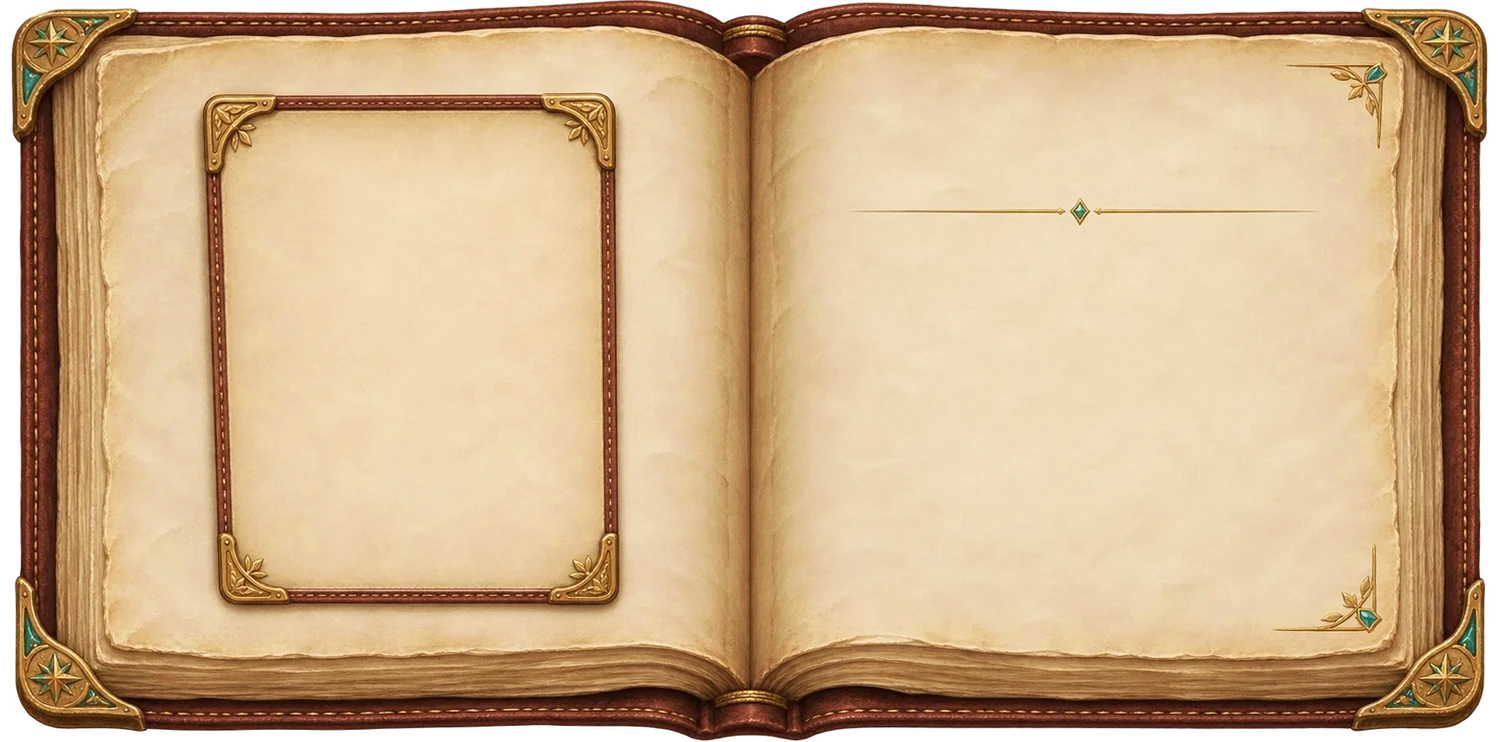
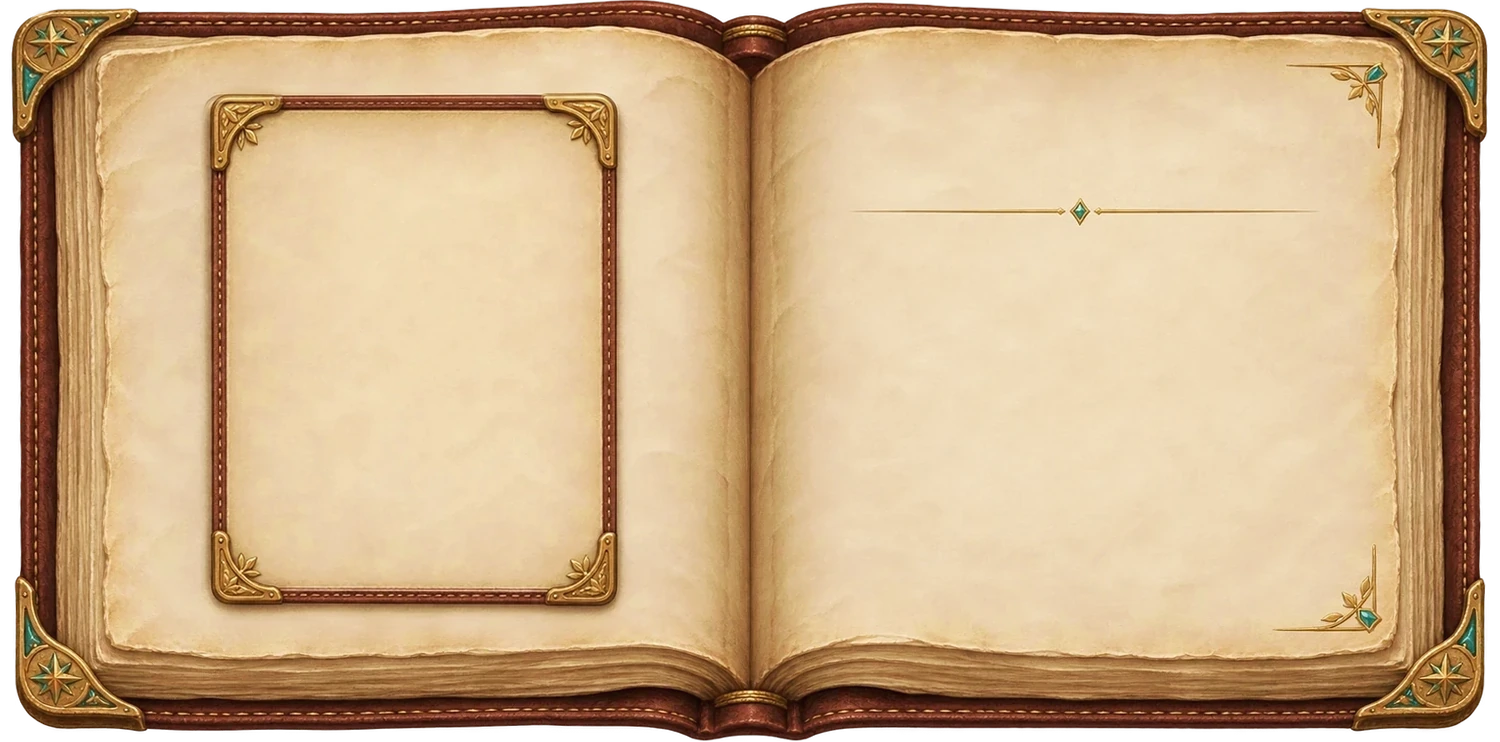
v98.666: กรอบหน้าต่างการ์ดตรง 90° · สมุดผนึกใหญ่ขึ้น · ริบบิ้นแฉกขึ้นบน ด้านตรงชิดขอบสมุด
Claude-Session: https://claude.ai/code/session_019t7yaw2C9uJCiiaT3uHpNT

Changed region(s): [[0.1227, 0.496, 0.4293, 0.8369], [0.1227, 0.124, 0.276, 0.465], [0.3067, 0.124, 0.4293, 0.403]]

diff --git a/index.html b/index.html
@@ -1,11 +1,11 @@
-<!doctype html><html lang="th"><head><meta charset="utf-8"><link rel="icon" type="image/webp" href="assets/favicon.webp"><meta name="viewport" content="width=device-width,initial-scale=1"><script>/* v98.275 · editor tools (?editor=cards|menu): hide the game scene from the very first paint — the hiding rule used to arrive with js/editor-mode.js (script ~70 of ~100), so on a slow connection the old scene showed while the page was still loading */if(/[?&]editor=/.test(location.search)){var st=document.createElement("style");st.textContent="body>main>*:not(header),#villageTownLayer,.ambient,.day-veil,#advLayer,#tacticsLayer{display:none!important}body{background:#efe6cf!important}";document.head.appendChild(st)}</script><meta name="theme-color" content="#f5ecd5"><title>Agrenor: Paths Unwritten</title><link rel="stylesheet" href="css/thai-font.css?v=1"><script src="js/key-layout.js?v=1"></script><link rel="stylesheet" href="css/mip-loader.css?v=2"><link rel="stylesheet" href="css/style.css"><link rel="stylesheet" href="css/layout.css"><link rel="stylesheet" href="css/paper-cards.css"><link rel="stylesheet" href="css/game-ui.css?v=v98.493"><link rel="stylesheet" href="css/workshop-layout.css"><link rel="stylesheet" href="css/village.css"><link rel="stylesheet" href="css/journey.css"><link rel="stylesheet" href="css/ivory-v03.css"><link rel="stylesheet" href="css/polish-v05.css"><link rel="stylesheet" href="css/card-studio.css"><link rel="stylesheet" href="css/card-book.css?v=v98.665"><link rel="stylesheet" href="css/hand-cards.css"><link rel="stylesheet" href="css/battle-polish.css">
-<link rel="stylesheet" href="css/town-font.css"><link rel="stylesheet" href="css/title-screen.css?v=v98.582"><link rel="stylesheet" href="css/story.css?v=v98.621"><script src="js/touch.js?v=94.02"></script><script src="js/webp-redirect.js?v=92.04"></script><script src="js/game-version.js?v=v98.665"></script><script src="js/precache.js?v=v98.654" defer></script><script src="js/media-cache.js?v=1"></script><script src="js/dialogue-fx.js?v=4"></script><script src="js/mip-loader.js?v=1"></script><script src="js/new-game-prologue-kit.js?v=18"></script><script src="js/title-screen.js?v=v98.582"></script><style id="gameplay-no-editor-tools">
+<!doctype html><html lang="th"><head><meta charset="utf-8"><link rel="icon" type="image/webp" href="assets/favicon.webp"><meta name="viewport" content="width=device-width,initial-scale=1"><script>/* v98.275 · editor tools (?editor=cards|menu): hide the game scene from the very first paint — the hiding rule used to arrive with js/editor-mode.js (script ~70 of ~100), so on a slow connection the old scene showed while the page was still loading */if(/[?&]editor=/.test(location.search)){var st=document.createElement("style");st.textContent="body>main>*:not(header),#villageTownLayer,.ambient,.day-veil,#advLayer,#tacticsLayer{display:none!important}body{background:#efe6cf!important}";document.head.appendChild(st)}</script><meta name="theme-color" content="#f5ecd5"><title>Agrenor: Paths Unwritten</title><link rel="stylesheet" href="css/thai-font.css?v=1"><script src="js/key-layout.js?v=1"></script><link rel="stylesheet" href="css/mip-loader.css?v=2"><link rel="stylesheet" href="css/style.css"><link rel="stylesheet" href="css/layout.css"><link rel="stylesheet" href="css/paper-cards.css"><link rel="stylesheet" href="css/game-ui.css?v=v98.493"><link rel="stylesheet" href="css/workshop-layout.css"><link rel="stylesheet" href="css/village.css"><link rel="stylesheet" href="css/journey.css"><link rel="stylesheet" href="css/ivory-v03.css"><link rel="stylesheet" href="css/polish-v05.css"><link rel="stylesheet" href="css/card-studio.css"><link rel="stylesheet" href="css/card-book.css?v=v98.666"><link rel="stylesheet" href="css/hand-cards.css"><link rel="stylesheet" href="css/battle-polish.css">
+<link rel="stylesheet" href="css/town-font.css"><link rel="stylesheet" href="css/title-screen.css?v=v98.582"><link rel="stylesheet" href="css/story.css?v=v98.621"><script src="js/touch.js?v=94.02"></script><script src="js/webp-redirect.js?v=92.04"></script><script src="js/game-version.js?v=v98.666"></script><script src="js/precache.js?v=v98.654" defer></script><script src="js/media-cache.js?v=1"></script><script src="js/dialogue-fx.js?v=4"></script><script src="js/mip-loader.js?v=1"></script><script src="js/new-game-prologue-kit.js?v=18"></script><script src="js/title-screen.js?v=v98.582"></script><style id="gameplay-no-editor-tools">
 /* In normal play, hide development-only battle controls. They remain available in Editor mode. */
 body:not(.editor-mode) #anchorToggle,
 body:not(.editor-mode) #anchorEditor,
 body:not(.editor-mode) #fxToggle,
 body:not(.editor-mode) #fxLab { display:none !important; }
-</style><link rel="stylesheet" href="css/game-intro.css?v=3"><link rel="stylesheet" href="css/opening-cinematic.css?v=v98.586"><script defer src="js/maker-logo.js?v=10"></script><script defer src="js/game-intro.js?v=16"></script><script defer src="js/opening-cinematic.js?v=v98.653"></script></head><body><div class="ambient"></div><main><header><div><div class="eyebrow">EVERYDAY ARCANA · VERSION 15 · JOURNEY</div><h1>Project A</h1></div><div class="header-actions"><button class="map-nav" onclick="openPanel('map')" title="แผนที่หมู่บ้าน" aria-label="แผนที่หมู่บ้าน">◇ <span class="map-text">แผนที่</span></button><button onclick="openPanel('bag')" title="สมุดผนึก" aria-label="สมุดผนึก">▣</button><button onclick="openPanel('upgrade')" title="อัปไพ่" aria-label="อัปไพ่">✦</button><button id="motion" onclick="toggleMotion()" title="เปิดหรือย่อแอนิเมชัน" aria-label="เปิดหรือย่อแอนิเมชัน">◈</button></div></header><section class="hud" id="hud"></section><section id="roster" class="roster" aria-label="ตัวละครในฉาก"></section><section class="world" id="world"><div class="world-shade"></div><div class="location"><div><span class="eyebrow" id="placeLabel"></span><h2 id="placeTitle"></h2></div><div class="workshop-activity"><span id="activityLabel">⚒ งานคราฟต์</span><button id="stopTraining" onclick="toggleTraining()" title="จบการฝึก" aria-label="จบการฝึก" hidden>⚑</button></div></div><div class="quest" id="quest"></div><div class="station furnace" onclick="station(0)" role="button" tabindex="0" onkeydown="if(event.key==='Enter')station(0)" title="หลอมโลหะ: แรง 6 / เวลา 15 นาที">♨<span>เตาหลอม</span></div><div class="station anvil" onclick="station(1)" role="button" tabindex="0" onkeydown="if(event.key==='Enter')station(1)" title="ตีขึ้นรูป: แรง 8 / เวลา 20 นาที">⚒<span>ทั่งตีเหล็ก</span></div><div class="station water" onclick="station(2)" role="button" tabindex="0" onkeydown="if(event.key==='Enter')station(2)" title="ชุบแข็ง: แรง 4 / เวลา 10 นาที">◈<span>ถังชุบแข็ง</span></div><div class="station bench" onclick="station(3)" role="button" tabindex="0" onkeydown="if(event.key==='Enter')station(3)" title="พักสั้น: ฟื้นแรง 25 / เวลา 15 นาที">☾<span>จุดพัก</span></div><div class="actor" id="actor"><div class="shadow"></div><div class="sprite-motion"><img id="heroSprite" class="cutout" src="assets/hero.webp" alt="ตัวเอก"></div><span class="emotion" id="emotion">✦</span><span class="actor-name" data-hero-name>นักผจญภัย</span></div><div id="dummy" class="dummy" role="button" tabindex="0" onclick="toggleTraining()" onkeydown="if(event.key==='Enter'||event.key===' '){event.preventDefault();toggleTraining()}" aria-label="ฝึกกับหุ่นฟาง"><div class="sprite-motion"><img id="dummySprite" class="cutout" src="assets/scarecrow.webp" alt="หุ่นไล่กาฝึกซ้อม"></div></div><div class="dummy-prompt" id="dummyPrompt">⚔ แตะหุ่นเพื่อฝึก</div><div class="target-anchor" id="targetAnchor"></div><div class="world-feedback" id="feedback" aria-live="polite"></div><div class="workbars" id="workbars"></div><div class="world-bottom"><span id="equipped"></span><button id="newRound" onclick="newRound()" hidden>เริ่มงานใหม่</button><div id="recipes"><button onclick="setRecipe('sword')" id="swordRecipe" title="สร้างดาบ" aria-label="สร้างดาบ">⚔</button><button onclick="setRecipe('hammer')" id="hammerRecipe" title="สร้างค้อน" aria-label="สร้างค้อน">⚒</button></div></div><div class="scene-flash" id="sceneFlash"></div></section><div class="hand-heading"><div><span class="eyebrow">YOUR HAND</span><h2>ไพ่ในมือ · ลากลงฉากเพื่อใช้ <small id="handCount"></small></h2></div><div class="legend"><span class="combat">⚔ ผจญภัย · ☾ ฟื้นฟู</span><button onclick="openHelp()" aria-label="คำอธิบายสัญลักษณ์">?</button></div></div><p id="message" class="message" role="status"></p><div class="hand-scroll" id="handScroll"><div class="hand" id="hand"></div></div><footer><span id="saveStatus"></span><button onclick="resetAll()">เริ่มใหม่ทั้งหมด</button></footer></main><dialog id="panel"><div class="panelhead"><h2 id="panelTitle"></h2><button onclick="document.getElementById('panel').close()">✕ ปิด</button></div><div id="panelContent"></div></dialog><dialog id="reward"><div class="reward-rays"></div><span class="eyebrow">NEW DISCOVERY</span><h2 id="rewardTitle"></h2><div id="rewardCard"></div><button class="primary" onclick="document.getElementById('reward').close()">ปิดสมุด</button></dialog><div id="dayVeil" class="day-veil"><span>เช้าวันใหม่</span></div><script src="js/game-dialog.js"></script><script src="js/game-settings.js?v=v98.648"></script><script src="js/card-design.js"></script><script src="js/cards-data.js"></script><script src="js/core.js?v=98.294"></script><script src="js/hero-identity.js?v=51"></script><script src="js/village-core.js?v=98.294"></script><script src="js/injury.js?v=v98.332"></script><script src="js/world-state.js?v=98.297"></script><script src="js/weapons.js"></script><script src="js/save-migrate.js?v=v98.444"></script><script src="js/journey-core.js"></script><script src="js/layout-config.js"></script><script src="js/paper-cards.js?v=v98.444"></script><script src="js/ui.js?v=v98.444"></script><script src="js/village-ui.js?v=v98.474"></script><script src="js/guild-desk.js?v=v98.586"></script><script src="js/station-actions.js?v=v98.444"></script><script src="js/village-life.js?v=v98.427"></script><script src="js/player-shop.js?v=95.00"></script><script src="js/progression.js?v=v98.332"></script><script src="js/titles.js?v=v98.474"></script><script src="js/main-story.js?v=v98.493"></script><script src="js/animation-data.js"></script><script src="js/card-lore.js?v=v98.665"></script><script src="js/collection-v03.js?v=v98.665"></script><section id="tacticsLayer" hidden aria-label="ฝึกต่อสู้แบบตาราง"><div class="topbar"><button class="back-link" id="tacticsExit">← ออกจากการฝึก</button><div class="title"><small>EVERYDAY ARCANA · ฝึกกับหุ่นฟาง</small><h1>ลานฝึกริมป่า</h1></div><div class="top-actions"><button id="helpButton">วิธีเล่น</button><button id="motionButton" aria-pressed="true">แอนิเมชัน เปิด</button><button id="fullButton">เต็มจอ</button></div></div>
+</style><link rel="stylesheet" href="css/game-intro.css?v=3"><link rel="stylesheet" href="css/opening-cinematic.css?v=v98.586"><script defer src="js/maker-logo.js?v=10"></script><script defer src="js/game-intro.js?v=16"></script><script defer src="js/opening-cinematic.js?v=v98.653"></script></head><body><div class="ambient"></div><main><header><div><div class="eyebrow">EVERYDAY ARCANA · VERSION 15 · JOURNEY</div><h1>Project A</h1></div><div class="header-actions"><button class="map-nav" onclick="openPanel('map')" title="แผนที่หมู่บ้าน" aria-label="แผนที่หมู่บ้าน">◇ <span class="map-text">แผนที่</span></button><button onclick="openPanel('bag')" title="สมุดผนึก" aria-label="สมุดผนึก">▣</button><button onclick="openPanel('upgrade')" title="อัปไพ่" aria-label="อัปไพ่">✦</button><button id="motion" onclick="toggleMotion()" title="เปิดหรือย่อแอนิเมชัน" aria-label="เปิดหรือย่อแอนิเมชัน">◈</button></div></header><section class="hud" id="hud"></section><section id="roster" class="roster" aria-label="ตัวละครในฉาก"></section><section class="world" id="world"><div class="world-shade"></div><div class="location"><div><span class="eyebrow" id="placeLabel"></span><h2 id="placeTitle"></h2></div><div class="workshop-activity"><span id="activityLabel">⚒ งานคราฟต์</span><button id="stopTraining" onclick="toggleTraining()" title="จบการฝึก" aria-label="จบการฝึก" hidden>⚑</button></div></div><div class="quest" id="quest"></div><div class="station furnace" onclick="station(0)" role="button" tabindex="0" onkeydown="if(event.key==='Enter')station(0)" title="หลอมโลหะ: แรง 6 / เวลา 15 นาที">♨<span>เตาหลอม</span></div><div class="station anvil" onclick="station(1)" role="button" tabindex="0" onkeydown="if(event.key==='Enter')station(1)" title="ตีขึ้นรูป: แรง 8 / เวลา 20 นาที">⚒<span>ทั่งตีเหล็ก</span></div><div class="station water" onclick="station(2)" role="button" tabindex="0" onkeydown="if(event.key==='Enter')station(2)" title="ชุบแข็ง: แรง 4 / เวลา 10 นาที">◈<span>ถังชุบแข็ง</span></div><div class="station bench" onclick="station(3)" role="button" tabindex="0" onkeydown="if(event.key==='Enter')station(3)" title="พักสั้น: ฟื้นแรง 25 / เวลา 15 นาที">☾<span>จุดพัก</span></div><div class="actor" id="actor"><div class="shadow"></div><div class="sprite-motion"><img id="heroSprite" class="cutout" src="assets/hero.webp" alt="ตัวเอก"></div><span class="emotion" id="emotion">✦</span><span class="actor-name" data-hero-name>นักผจญภัย</span></div><div id="dummy" class="dummy" role="button" tabindex="0" onclick="toggleTraining()" onkeydown="if(event.key==='Enter'||event.key===' '){event.preventDefault();toggleTraining()}" aria-label="ฝึกกับหุ่นฟาง"><div class="sprite-motion"><img id="dummySprite" class="cutout" src="assets/scarecrow.webp" alt="หุ่นไล่กาฝึกซ้อม"></div></div><div class="dummy-prompt" id="dummyPrompt">⚔ แตะหุ่นเพื่อฝึก</div><div class="target-anchor" id="targetAnchor"></div><div class="world-feedback" id="feedback" aria-live="polite"></div><div class="workbars" id="workbars"></div><div class="world-bottom"><span id="equipped"></span><button id="newRound" onclick="newRound()" hidden>เริ่มงานใหม่</button><div id="recipes"><button onclick="setRecipe('sword')" id="swordRecipe" title="สร้างดาบ" aria-label="สร้างดาบ">⚔</button><button onclick="setRecipe('hammer')" id="hammerRecipe" title="สร้างค้อน" aria-label="สร้างค้อน">⚒</button></div></div><div class="scene-flash" id="sceneFlash"></div></section><div class="hand-heading"><div><span class="eyebrow">YOUR HAND</span><h2>ไพ่ในมือ · ลากลงฉากเพื่อใช้ <small id="handCount"></small></h2></div><div class="legend"><span class="combat">⚔ ผจญภัย · ☾ ฟื้นฟู</span><button onclick="openHelp()" aria-label="คำอธิบายสัญลักษณ์">?</button></div></div><p id="message" class="message" role="status"></p><div class="hand-scroll" id="handScroll"><div class="hand" id="hand"></div></div><footer><span id="saveStatus"></span><button onclick="resetAll()">เริ่มใหม่ทั้งหมด</button></footer></main><dialog id="panel"><div class="panelhead"><h2 id="panelTitle"></h2><button onclick="document.getElementById('panel').close()">✕ ปิด</button></div><div id="panelContent"></div></dialog><dialog id="reward"><div class="reward-rays"></div><span class="eyebrow">NEW DISCOVERY</span><h2 id="rewardTitle"></h2><div id="rewardCard"></div><button class="primary" onclick="document.getElementById('reward').close()">ปิดสมุด</button></dialog><div id="dayVeil" class="day-veil"><span>เช้าวันใหม่</span></div><script src="js/game-dialog.js"></script><script src="js/game-settings.js?v=v98.648"></script><script src="js/card-design.js"></script><script src="js/cards-data.js"></script><script src="js/core.js?v=98.294"></script><script src="js/hero-identity.js?v=51"></script><script src="js/village-core.js?v=98.294"></script><script src="js/injury.js?v=v98.332"></script><script src="js/world-state.js?v=98.297"></script><script src="js/weapons.js"></script><script src="js/save-migrate.js?v=v98.444"></script><script src="js/journey-core.js"></script><script src="js/layout-config.js"></script><script src="js/paper-cards.js?v=v98.444"></script><script src="js/ui.js?v=v98.444"></script><script src="js/village-ui.js?v=v98.474"></script><script src="js/guild-desk.js?v=v98.586"></script><script src="js/station-actions.js?v=v98.444"></script><script src="js/village-life.js?v=v98.427"></script><script src="js/player-shop.js?v=95.00"></script><script src="js/progression.js?v=v98.332"></script><script src="js/titles.js?v=v98.474"></script><script src="js/main-story.js?v=v98.493"></script><script src="js/animation-data.js"></script><script src="js/card-lore.js?v=v98.666"></script><script src="js/collection-v03.js?v=v98.666"></script><section id="tacticsLayer" hidden aria-label="ฝึกต่อสู้แบบตาราง"><div class="topbar"><button class="back-link" id="tacticsExit">← ออกจากการฝึก</button><div class="title"><small>EVERYDAY ARCANA · ฝึกกับหุ่นฟาง</small><h1>ลานฝึกริมป่า</h1></div><div class="top-actions"><button id="helpButton">วิธีเล่น</button><button id="motionButton" aria-pressed="true">แอนิเมชัน เปิด</button><button id="fullButton">เต็มจอ</button></div></div>
 <section class="field-tools" aria-label="สร้างสนาม"><label>สถานที่ <select id="theme"><option value="fft-forest">ป่าเนินผา · แบบ FFT (ทดลอง)</option><option value="modular-wilds">ป่าผสม · สุ่มชิ้นส่วน</option><option value="terraced-hill">เนินหินลานขั้นบันได</option><option value="forest" selected>ลานฝึกริมป่า</option><option value="quarry">เหมืองหินร้าง</option><option value="mine">เหมืองร้าง (ถ้ำ)</option></select></label><label>รูปแบบ <select id="fieldMode"><option value="training">ฝึก 1 ต่อ 1 · 18×19</option><option value="battle">สนามรบ 5 ต่อ 10 · 23×24 (ทดสอบ)</option></select></label><label>แสง <select id="nightMode" title="ฉากมืด: สุ่มตาม seed (ราว 1 ใน 4) / บังคับกลางคืน / บังคับกลางวัน"><option value="random">สุ่ม</option><option value="night">กลางคืน</option><option value="day">กลางวัน</option></select></label><label>Seed <input id="seed" maxlength="40" value="FOREST-04" spellcheck="false"></label><button id="generateButton">สร้างสนาม</button><button id="randomButton">สุ่มใหม่</button><button id="seeThrough" aria-pressed="false" title="ทำให้ต้นไม้และเสาโปร่ง (ปุ่ม H)">มองทะลุ ปิด</button><div class="zoom-controls"><button id="rotLeft" title="หมุนแผนที่ทวนเข็ม ([)">⟲</button><span id="rotLabel" class="rot-label" title="ทิศมุมกล้อง">N</span><button id="rotRight" title="หมุนแผนที่ตามเข็ม (])">⟳</button><button id="zoomOut" aria-label="ย่อสนาม">−</button><button id="zoomReset">พอดีจอ</button><button id="zoomIn" aria-label="ขยายสนาม">+</button></div></section>
 <div class="battle-layout"><section class="field-wrap"><div class="round-banner"><span id="roundLabel">รอบ 1 · ตาของคุณ</span><span id="modeLabel">เดิน • ช่องสีฟ้า</span></div><canvas id="battleCanvas" tabindex="0" aria-label="สนามฝึกตารางเอียง ใช้ลูกศรเลือกช่อง F เดินหรือใช้ไพ่ Enter จบเทิร์น Escape ยกเลิก"></canvas><div class="tile-inspector" id="tileInspector">ชี้ช่องเพื่อดูความสูงและค่าเดิน</div><div class="field-hint">คลิกช่องเพื่อเดิน · เลือกไพ่แล้วคลิกเป้าหมาย · ลากพื้นที่ว่างเพื่อเลื่อนภาพ</div><div class="result-overlay" id="resultOverlay" hidden><div><span id="resultEyebrow">ฝึกสำเร็จ</span><h2 id="resultTitle"></h2><p id="resultText"></p><button id="retryButton">ฝึกสนามเดิมอีกครั้ง</button><button id="tacticsResultExit">กลับโรงตีเหล็ก</button></div></div></section>
 <div class="battle-journal"><div class="unit-heading"><img src="assets/adventurer-unarmed-idle.webp" alt="นักผจญภัย"><div><small>ตัวละครหลัก</small><h2>นักผจญภัยฝึกหัด</h2><span id="heroTile"></span></div></div><div id="heroStats" class="stats"></div><div class="turn-resources"><span>ไพ่ต่อสู้ <b id="apValue">2/2</b></span><span>กำลังเดิน <b id="mpValue">5</b></span></div><fieldset class="equipment"><legend>อาวุธ (เริ่มจากที่สวมใส่)</legend><label>มือหลัก<select id="weapon"><option value="sword">ดาบเหล็ก</option><option value="hammer">ค้อนเหล็ก</option><option value="staff">ไม้เท้าเวท</option><option value="unarmed">มือเปล่า</option><option value="knife">มีดสั้น</option><option value="spear">หอก · ระยะ 2</option><option value="rapier">เรเปียร์</option><option value="bow">ธนู · ระยะ 5</option><option value="axe">ขวาน</option><option value="tome">คัมภีร์แสง</option></select></label><label class="check"><input id="shield" type="checkbox" checked> สวมโล่มือรอง</label><small>เปลี่ยนเพื่อทดสอบท่าและภาพของอาวุธได้</small></fieldset><button id="anchorToggle" class="anchor-toggle" title="โหมดพัฒนา: ปรับจุดมือของอาวุธ (A)">✋ จัดจุดมืออาวุธ</button><div id="anchorEditor" class="anchor-editor" hidden></div><button id="fxToggle" class="anchor-toggle" title="โหมดพัฒนา: ดูเอฟเฟกต์ทุกแบบ">✨ ทดสอบเอฟเฟกต์</button><div id="fxLab" class="anchor-editor fx-lab" hidden></div><div class="enemy-info"><h3 id="enemyTitle">หุ่นไล่กาฝึกซ้อม</h3><div id="enemyStats"></div><p id="enemyIntent"></p></div><div class="log-book"><h3>บันทึกการฝึก</h3><ol id="battleLog" aria-live="polite"></ol></div><button id="endTurn" class="primary">จบเทิร์น (Space)</button></div></div>
@@ -27,5 +27,5 @@ body:not(.editor-mode) #fxLab { display:none !important; }
 <li><b>ลานฝึก:</b> เมนูตั้งค่าฝึกเปลี่ยนอาวุธ/โล่ รูปแบบ 1v1 หรือทดสอบ 5v10 และสุ่มสนาม · ตั้งค่าเสียง/เพลง/บรรยากาศ/จอสั่นได้แยก</li>
 </ul><p>จัดสำรับที่บ้าน → จัดสำรับ → สำรับสนามตาราง · เวลาในเกมเดินตามรอบ CT ไม่ใช้เวลาที่ปล่อยหน้าจอทิ้งไว้</p></dialog>
 </section><script src="js/asset-manifest.js?v=v98.647"></script><script src="js/chaos.js?v=98.68"></script><script src="js/adventure-data.js?v=v98.631"></script><script src="js/tactics-decks.js?v=v98.472"></script><script src="js/code-card-art.js?v=98.66"></script><script src="js/elements.js?v=97.50"></script><script src="js/tactics-core.js?v=98.258"></script><script src="js/occlusion-masks.js"></script><script src="js/tactics-sprites.js?v=98.72"></script><script src="js/hero-variant.js?v=98.238"></script><script src="js/hero-motion.js"></script><script src="js/monster-animation.js"></script>
-<script src="js/battle-polish.js?v=59"></script><script src="js/sfx.js?v=98.298"></script><script src="js/battle-vfx.js?v=v98.636"></script><script src="js/touch-controls.js?v=98.32"></script><script src="js/training-flat.js?v=v98.444"></script><script src="js/tactics-deckbuilder.js?v=98.274"></script><script src="js/companions.js?v=98.274"></script><script src="js/layout-v08.js?v=v98.444"></script><script src="js/unit-card-art.js"></script><script src="js/card-studio.js?v=98.66"></script><script src="js/hand-cards.js"></script><script src="js/bag.js?v=v98.665"></script><script src="js/card-book.js?v=v98.665"></script><script src="js/nav-icons.js?v=98.31"></script><script src="js/proc-motion.js?v=98.641"></script><script src="js/manifest-merge.js?v=v98.444"></script><script src="js/github-push.js?v=v98.650"></script><script src="js/editor-mode.js?v=v98.631"></script><script src="js/save-backup.js"></script><script src="js/speed-check.js?v=v98.338"></script><script src="js/settings.js?v=98.181"></script>
-<script src="js/game-bgm.js?v=v98.631"></script><script src="js/game-mood.js?v=74"></script><script src="js/hd2d.js?v=v98.663"></script><script src="js/village-town-bridge.js?v=v98.369"></script><script src="js/resume.js?v=v98.352"></script><script src="js/starter-kit.js?v=v98.472"></script><script src="js/smith-wip.js?v=v98.631"></script><script src="js/scene-art.js?v=98.604"></script><script src="js/scene-extras.js?v=97.06"></script><script src="js/story-fx.js?v=v98.631"></script><script src="js/guided-tour.js?v=v98.665"></script><script src="js/portrait-scale.js?v=v98.594"></script><script src="js/portrait-facing.js?v=v98.631"></script><script src="js/story-actors.js?v=v98.659"></script><script src="js/story-data.js?v=v98.659"></script><script src="js/story-quests.js?v=v98.665"></script><script src="js/card-sources.js?v=95.10"></script><script src="js/village-journal.js?v=95.11"></script><script src="js/jobs-ui.js?v=97.18b"></script><script src="js/village-projects.js?v=97.41"></script><script src="js/farm-crew.js?v=98.296"></script><script src="js/garden.js?v=98.296"></script><script src="js/tips.js?v=v98.310"></script><script src="js/factions.js?v=v98.474"></script><script src="js/settlements.js?v=97.84"></script><script src="js/law.js?v=98.294"></script><script src="js/console-ui.js?v=98.32"></script></body></html>
+<script src="js/battle-polish.js?v=59"></script><script src="js/sfx.js?v=98.298"></script><script src="js/battle-vfx.js?v=v98.636"></script><script src="js/touch-controls.js?v=98.32"></script><script src="js/training-flat.js?v=v98.444"></script><script src="js/tactics-deckbuilder.js?v=98.274"></script><script src="js/companions.js?v=98.274"></script><script src="js/layout-v08.js?v=v98.444"></script><script src="js/unit-card-art.js"></script><script src="js/card-studio.js?v=98.66"></script><script src="js/hand-cards.js"></script><script src="js/bag.js?v=v98.666"></script><script src="js/card-book.js?v=v98.666"></script><script src="js/nav-icons.js?v=98.31"></script><script src="js/proc-motion.js?v=98.641"></script><script src="js/manifest-merge.js?v=v98.444"></script><script src="js/github-push.js?v=v98.650"></script><script src="js/editor-mode.js?v=v98.631"></script><script src="js/save-backup.js"></script><script src="js/speed-check.js?v=v98.338"></script><script src="js/settings.js?v=98.181"></script>
+<script src="js/game-bgm.js?v=v98.631"></script><script src="js/game-mood.js?v=74"></script><script src="js/hd2d.js?v=v98.663"></script><script src="js/village-town-bridge.js?v=v98.369"></script><script src="js/resume.js?v=v98.352"></script><script src="js/starter-kit.js?v=v98.472"></script><script src="js/smith-wip.js?v=v98.631"></script><script src="js/scene-art.js?v=98.604"></script><script src="js/scene-extras.js?v=97.06"></script><script src="js/story-fx.js?v=v98.631"></script><script src="js/guided-tour.js?v=v98.666"></script><script src="js/portrait-scale.js?v=v98.594"></script><script src="js/portrait-facing.js?v=v98.631"></script><script src="js/story-actors.js?v=v98.659"></script><script src="js/story-data.js?v=v98.659"></script><script src="js/story-quests.js?v=v98.666"></script><script src="js/card-sources.js?v=95.10"></script><script src="js/village-journal.js?v=95.11"></script><script src="js/jobs-ui.js?v=97.18b"></script><script src="js/village-projects.js?v=97.41"></script><script src="js/farm-crew.js?v=98.296"></script><script src="js/garden.js?v=98.296"></script><script src="js/tips.js?v=v98.310"></script><script src="js/factions.js?v=v98.474"></script><script src="js/settlements.js?v=97.84"></script><script src="js/law.js?v=98.294"></script><script src="js/console-ui.js?v=98.32"></script></body></html>

diff --git a/css/card-book.css b/css/card-book.css
@@ -29,10 +29,10 @@
 .card-book .collection-grid{display:grid;grid-template-columns:repeat(auto-fill,156px);gap:14px 10px;justify-content:start;margin:6px 0 14px}
 
 /* v98.665 · the painted open book (js/card-book.js · .card-book.cb-v2). Every size is a fraction of --w (the book's width) so the zones always sit on the paper */
-#panel:has(.card-book.cb-v2){background:transparent;border:0;box-shadow:none;max-width:none;width:min(1120px,98vw);padding:0;overflow:visible}
+#panel:has(.card-book.cb-v2){background:transparent;border:0;box-shadow:none;max-width:none;width:min(1580px,99.5vw);max-height:none;padding:0;overflow:visible}
 #panel:has(.card-book.cb-v2) .panelhead{display:none}
 #panel:has(.card-book.cb-v2)::backdrop{background:radial-gradient(70% 60% at 50% 48%,#ffaa5036,#0000 70%),#0a0503d0;backdrop-filter:blur(5px)}
-.card-book.cb-v2{--w:min(1100px,94vw);--u:calc(var(--w)/100);width:var(--w);margin:0 auto;padding:calc(var(--u)*5.6) 0 0;background:none;border:0;box-shadow:none;border-radius:0;position:relative;color:#3a2a14}
+.card-book.cb-v2{--w:min(1540px,99vw,162vh);--u:calc(var(--w)/100);width:var(--w);margin:0 auto;padding:calc(var(--u)*5.6) 0 0;background:none;border:0;box-shadow:none;border-radius:0;position:relative;color:#3a2a14}
 .card-book.cb-v2::before{display:none}
 .cb-v2 .cb-tabs{position:absolute;left:calc(var(--u)*7);top:0;display:flex;gap:calc(var(--u)*.9);align-items:flex-start;padding:0;margin:0;z-index:3;height:calc(var(--u)*9)}
 .cb-v2 .cb-tabs button{position:relative;display:flex;flex-direction:column;align-items:center;justify-content:flex-start;gap:0;width:calc(var(--u)*6.4);height:calc(var(--u)*8.4);margin-top:calc(var(--u)*-.2);padding:calc(var(--u)*.7) 0 0;border:0;border-radius:0 0 0 0;background:linear-gradient(90deg,#8e1f1c,#b83a2e 45%,#8a1c1a);color:#ffe9b8;clip-path:polygon(0 0,100% 0,100% 100%,50% 86%,0 100%);box-shadow:none;cursor:pointer;font:700 calc(var(--u)*1.05) AgThai,VillageThai,system-ui,sans-serif;transform:translateY(calc(var(--u)*-3.2));transition:transform .18s,filter .15s;filter:drop-shadow(0 calc(var(--u)*.3) calc(var(--u)*.4) #0008)}
@@ -65,3 +65,12 @@
 .cb-v2 .cb-pg .collection-count{right:calc(var(--u)*.3);top:auto;bottom:auto}
 .cb-v2 .cb-pg{background:none!important;border:0!important;padding:0!important}
 .cb-v2 .cb-close{right:8.6%;top:13.8%;width:calc(var(--u)*2.6);height:calc(var(--u)*2.6);filter:drop-shadow(0 0 2px #3a2208) drop-shadow(0 1px 1px #3a2208)}
+
+/* v98.665b · ribbons stand ABOVE the book: the swallow-tail (notch) points up, the straight end sits on the book's top edge; the open tab stands taller */
+.card-book.cb-v2{padding-top:calc(var(--u)*10)}
+.cb-v2 .cb-tabs{top:0;height:calc(var(--u)*11.4);align-items:flex-end;left:calc(var(--u)*7)}
+.cb-v2 .cb-tabs button{justify-content:flex-end;height:calc(var(--u)*7.6);margin-top:0;padding:0 0 calc(var(--u)*.9);transform:none;clip-path:polygon(0 0,50% 13%,100% 0,100% 100%,0 100%)}
+.cb-v2 .cb-tabs button::before{inset:calc(var(--u)*1.3) calc(var(--u)*.35) 0;border:calc(var(--u)*.14) solid #e2b95c;border-top:0;border-bottom:0}
+.cb-v2 .cb-tabs button em{top:calc(var(--u)*1.6);right:calc(var(--u)*.4)}
+.cb-v2 .cb-tabs button.on{transform:none;height:calc(var(--u)*10);background:linear-gradient(90deg,#b52a22,#e0503a 45%,#b0261f)}
+.cb-v2 .cb-tabs button{filter:drop-shadow(0 calc(var(--u)*-.1) calc(var(--u)*.35) #0009)}

diff --git a/village-town.html b/village-town.html
@@ -1,4 +1,4 @@
-<!doctype html><html lang="th"><meta charset="utf-8"><script src="js/texel.js?v=v98.665"></script><script src="js/asset-size.js?v=v98.576"></script><script src="js/piece-geometry.js?v=v98.500"></script><link rel="icon" type="image/webp" href="assets/favicon.webp"><meta name="viewport" content="width=device-width,initial-scale=1"><link rel="stylesheet" href="css/hud-art.css?v=98.279"><title>Project A · Village 2.5D</title><script src="js/sfx.js?v=98.298"></script><script src="js/key-layout.js?v=1"></script><script src="js/char-size.js?v=v98.572"></script><script src="js/tilt-shift.js?v=v98.663"></script><script src="js/perf-scale.js?v=v98.329"></script><script src="js/speed-check.js?v=v98.338"></script><script src="js/touch.js?v=94.02"></script><script src="js/webp-redirect.js?v=92.04"></script><script src="js/staged-preview.js?v=v98.387"></script><link rel="stylesheet" href="css/thai-font.css?v=1"><link rel="stylesheet" href="css/mip-loader.css?v=2"><style id="townBarCss">#townGameHud{zoom:1.5;order:-1;align-self:flex-start;margin:8px 8px 0 0;display:flex;align-items:center;gap:4px;padding:3px 10px 3px 8px;border-radius:999px;background:linear-gradient(180deg,#f8edd0,#e3cf9f);border:1px solid #b08a45;box-shadow:0 0 0 2px #3a2a14,0 4px 10px #0009,inset 0 1px 0 #fff9;color:#4a3418;font:700 12px VillageThai,system-ui,sans-serif;white-space:nowrap;pointer-events:none}
+<!doctype html><html lang="th"><meta charset="utf-8"><script src="js/texel.js?v=v98.666"></script><script src="js/asset-size.js?v=v98.576"></script><script src="js/piece-geometry.js?v=v98.500"></script><link rel="icon" type="image/webp" href="assets/favicon.webp"><meta name="viewport" content="width=device-width,initial-scale=1"><link rel="stylesheet" href="css/hud-art.css?v=98.279"><title>Project A · Village 2.5D</title><script src="js/sfx.js?v=98.298"></script><script src="js/key-layout.js?v=1"></script><script src="js/char-size.js?v=v98.572"></script><script src="js/tilt-shift.js?v=v98.663"></script><script src="js/perf-scale.js?v=v98.329"></script><script src="js/speed-check.js?v=v98.338"></script><script src="js/touch.js?v=94.02"></script><script src="js/webp-redirect.js?v=92.04"></script><script src="js/staged-preview.js?v=v98.387"></script><link rel="stylesheet" href="css/thai-font.css?v=1"><link rel="stylesheet" href="css/mip-loader.css?v=2"><style id="townBarCss">#townGameHud{zoom:1.5;order:-1;align-self:flex-start;margin:8px 8px 0 0;display:flex;align-items:center;gap:4px;padding:3px 10px 3px 8px;border-radius:999px;background:linear-gradient(180deg,#f8edd0,#e3cf9f);border:1px solid #b08a45;box-shadow:0 0 0 2px #3a2a14,0 4px 10px #0009,inset 0 1px 0 #fff9;color:#4a3418;font:700 12px VillageThai,system-ui,sans-serif;white-space:nowrap;pointer-events:none}
 #townGameHud img{position:static!important;width:18px!important;height:18px!important;max-width:none!important;min-width:0!important;object-fit:contain;flex:none}
 #townGameHud .hb-name{padding-right:2px}#townGameHud .hb-name b{font-weight:800}
 #townGameHud .hb-chip{display:flex;align-items:center;gap:3px;padding:1px 6px 1px 3px;border-radius:999px;background:#fff6dc99;border:1px solid #b08a4555}

diff --git a/battle-field.html b/battle-field.html
@@ -6,7 +6,7 @@ var draft=function(i){try{return JSON.parse(localStorage.getItem("bgAsset:"+i)||
 var id=q.get("bg");
 if(!id&&!q.get("seed")&&q.get("edit")!=="1"&&q.get("pick")!=="0"){var ix=rd("data/battlefields/index.json"),b=q.get("biome")||"grass",list=((ix&&ix.assets)||[]).filter(function(a){return a.tags&&a.tags.useInGame&&a.biome===b});if(list.length){var k=Math.floor(Math.random()*(list.length+1));if(k<list.length)id=list[k].id}}
 if(id){var a=draft(id)||rd("data/battlefields/"+encodeURIComponent(id)+".json");if(a){q.set("bg",id);q.set("biome",a.biome);q.set("seed",a.seed);q.set("r",a.r);if(a.poi)q.set("poi",a.poi);else q.delete("poi");q.set("night",a.night?"1":"0");history.replaceState(null,"","?"+q.toString())}}
-else if(q.get("edit")==="1"&&!q.get("seed")){q.set("seed",String(100000+Math.floor(Math.random()*900000)));history.replaceState(null,"","?"+q.toString())}}catch(e){}})();</script><script src="js/texel.js?v=v98.665"></script><script src="js/sfx.js?v=98.298"></script><script src="js/char-size.js?v=v98.572"></script><script src="js/key-layout.js?v=1"></script><script src="js/webp-redirect.js?v=92.04"></script><style>
+else if(q.get("edit")==="1"&&!q.get("seed")){q.set("seed",String(100000+Math.floor(Math.random()*900000)));history.replaceState(null,"","?"+q.toString())}}catch(e){}})();</script><script src="js/texel.js?v=v98.666"></script><script src="js/sfx.js?v=98.298"></script><script src="js/char-size.js?v=v98.572"></script><script src="js/key-layout.js?v=1"></script><script src="js/webp-redirect.js?v=92.04"></script><style>
 @font-face{font-family:VillageThai;src:url(assets/village-town/noto-sans-thai-thai-400-normal.woff2) format('woff2');font-weight:100 900}
 @font-face{font-family:VillageThai;src:url(assets/village-town/noto-sans-thai-latin-400-normal.woff2) format('woff2');font-weight:100 900}
 *{box-sizing:border-box}html,body{margin:0;height:100%;overflow:hidden;background:#07080c;color:#f3e9c9;font:14px VillageThai,system-ui,sans-serif}

diff --git a/village-place.html b/village-place.html
@@ -1,5 +1,5 @@
 <!doctype html>
-<html lang="th"><meta charset="utf-8"><script src="js/perf-scale.js?v=v98.574"></script><script src="js/asset-size.js?v=v98.576"></script><script src="js/tilt-shift.js?v=v98.663"></script><script src="js/texel.js?v=v98.665"></script><script src="js/piece-geometry.js?v=v98.500"></script><link rel="icon" type="image/webp" href="assets/favicon.webp"><meta name="viewport" content="width=device-width,initial-scale=1"><title>สถานที่ · Project A</title>
+<html lang="th"><meta charset="utf-8"><script src="js/perf-scale.js?v=v98.574"></script><script src="js/asset-size.js?v=v98.576"></script><script src="js/tilt-shift.js?v=v98.663"></script><script src="js/texel.js?v=v98.666"></script><script src="js/piece-geometry.js?v=v98.500"></script><link rel="icon" type="image/webp" href="assets/favicon.webp"><meta name="viewport" content="width=device-width,initial-scale=1"><title>สถานที่ · Project A</title>
 <script src="js/img-gate.js?v=v98.352"></script><script src="js/walk-speed.js?v=98.633"></script><script src="js/sfx.js?v=98.298"></script><script src="js/key-layout.js?v=1"></script><script src="js/touch.js?v=94.02"></script><script src="js/interactables.js?v=98.31"></script><script src="js/touch-controls.js?v=98.32"></script><script src="js/webp-redirect.js?v=92.04"></script><script src="js/staged-preview.js?v=v98.387"></script><link rel="stylesheet" href="css/thai-font.css?v=1"><style>
 @font-face{font-family:TownThai;src:url(assets/village-town/noto-sans-thai-thai-400-normal.woff2)}@font-face{font-family:TownThai;src:url(assets/village-town/noto-sans-thai-latin-400-normal.woff2)}
 *{box-sizing:border-box}body{margin:0;overflow:hidden;background:#2c3d2e;color:#f6edce;font:14px TownThai,system-ui,sans-serif}canvas{width:100vw;height:100dvh;display:block;touch-action:none}

diff --git a/place-interior.html b/place-interior.html
@@ -1,5 +1,5 @@
 <!doctype html><html lang="th"><head><meta charset="utf-8"><link rel="icon" type="image/webp" href="assets/favicon.webp"><meta name="viewport" content="width=device-width,initial-scale=1"><title>Fernvale · ภายในสถานที่</title>
-<script src="js/texel.js?v=v98.665"></script><script src="js/img-gate.js?v=v98.352"></script><link rel="stylesheet" href="css/thai-font.css?v=1"><script src="js/walk-speed.js?v=98.633"></script><script src="js/sfx.js?v=98.298"></script><script src="js/key-layout.js?v=1"></script><style>
+<script src="js/texel.js?v=v98.666"></script><script src="js/img-gate.js?v=v98.352"></script><link rel="stylesheet" href="css/thai-font.css?v=1"><script src="js/walk-speed.js?v=98.633"></script><script src="js/sfx.js?v=98.298"></script><script src="js/key-layout.js?v=1"></script><style>
 @font-face{font-family:VillageThai;src:url(assets/village-town/noto-sans-thai-thai-400-normal.woff2) format('woff2');font-weight:100 900}
 @font-face{font-family:VillageThai;src:url(assets/village-town/noto-sans-thai-latin-400-normal.woff2) format('woff2');font-weight:100 900}
 *{box-sizing:border-box}html,body{margin:0;height:100%;overflow:hidden;background:#120e0a;color:#f3e9c9;font:14px VillageThai,system-ui,sans-serif}

diff --git a/world-map.html b/world-map.html
@@ -1,5 +1,5 @@
 <!doctype html><html lang="th"><head><meta charset="utf-8"><link rel="icon" type="image/webp" href="assets/favicon.webp"><meta name="viewport" content="width=device-width,initial-scale=1"><title>Agrenor · แผนที่โลก</title>
-<link rel="stylesheet" href="css/thai-font.css?v=1"><script src="js/texel.js?v=v98.665"></script><script src="js/sfx.js?v=98.298"></script><script src="js/key-layout.js?v=1"></script><link rel="stylesheet" href="css/mip-loader.css?v=2"><script src="js/mip-loader.js?v=1"></script><style>
+<link rel="stylesheet" href="css/thai-font.css?v=1"><script src="js/texel.js?v=v98.666"></script><script src="js/sfx.js?v=98.298"></script><script src="js/key-layout.js?v=1"></script><link rel="stylesheet" href="css/mip-loader.css?v=2"><script src="js/mip-loader.js?v=1"></script><style>
 @font-face{font-family:VillageThai;src:url(assets/village-town/noto-sans-thai-thai-400-normal.woff2) format('woff2');font-weight:100 900}
 @font-face{font-family:VillageThai;src:url(assets/village-town/noto-sans-thai-latin-400-normal.woff2) format('woff2');font-weight:100 900}
 *{box-sizing:border-box}html,body{margin:0;height:100%;overflow:hidden;background:#07080c;color:#f3e9c9;font:14px VillageThai,system-ui,sans-serif}

diff --git a/editor.html b/editor.html
@@ -32,7 +32,7 @@ iframe[hidden]{display:none}
 </header>
 <div class="note" id="note"></div><div id="editorConflict" hidden role="status"></div>
 <main id="frames"></main>
-<script src="js/webp-redirect.js?v=92.04"></script><script src="js/game-version.js?v=v98.665"></script><script src="js/game-settings.js?v=v98.648"></script><script src="js/layout-sync.js?v=98.96"></script><script src="js/editor-deploy-status.js?v=91.45"></script><script src="js/game-dialog.js"></script><script src="js/github-push.js?v=v98.650"></script><script src="js/manifest-merge.js?v=v98.444"></script><script>
+<script src="js/webp-redirect.js?v=92.04"></script><script src="js/game-version.js?v=v98.666"></script><script src="js/game-settings.js?v=v98.648"></script><script src="js/layout-sync.js?v=98.96"></script><script src="js/editor-deploy-status.js?v=91.45"></script><script src="js/game-dialog.js"></script><script src="js/github-push.js?v=v98.650"></script><script src="js/manifest-merge.js?v=v98.444"></script><script>
 // Editor shell: every tool runs in its own frame; the game opens in "editor mode" (no play-save writes).
 // All tools share this browser's storage with the game — reload the game to see changes.
 const TABS=[

diff --git a/js/game-version.js b/js/game-version.js
@@ -2,7 +2,7 @@
    Major release: increment the main number (v80 → v81).
    Small patch (⬆ Push from an editor): increment the suffix counter (v81.13 → v81.14; treat it as a sequence, not a decimal).
    The commit message starts with the same version. Editor pushes bump the suffix automatically. */
-window.GAME_VERSION={v:'v98.665',date:'2026-11-17',repo:'ekkavish31/Project-Agrenor-Tactical-Card-Game'};
+window.GAME_VERSION={v:'v98.666',date:'2026-11-17',repo:'ekkavish31/Project-Agrenor-Tactical-Card-Game'};
 /* v91.94 · asset cache (sw.js): reloads reuse the ~60 MB of map images; a new version fetches them once; Ctrl+F5 refreshes the stored copies */
 /* v98.380 · on localhost (development) no asset cache: edited local images show on F5 (tools/dev-server.cjs) */
 try{if('serviceWorker' in navigator&&/^https?:$/.test(location.protocol)){if(/^(localhost|127\.0\.0\.1|\[::1\])$/.test(location.hostname)){navigator.serviceWorker.getRegistrations().then(r=>r.forEach(x=>x.unregister())).catch(()=>{});window.caches&&caches.keys().then(k=>k.forEach(n=>caches.delete(n))).catch(()=>{})}else navigator.serviceWorker.register('sw.js?v='+encodeURIComponent(window.GAME_VERSION.v)).catch(()=>{})}}catch(e){}

diff --git a/js/town-battle.js b/js/town-battle.js
@@ -19,7 +19,7 @@
     /* (v92.13: the way to the world map is now an icon in the town's top-right icon row — town-ux.js) */
     return;
   }
-  const V = '98.665';
+  const V = '98.666';
   const SLOW = ['mud', 'snow', 'sand', 'swamp', 'sand-coarse'], COVER = ['moss', 'clover', 'forest'], WATER = ['water', 'pond'];   /* v98.543 · new ground materials: swamp · coarse sand slow like mud · sand · forest floor covers like moss */
   const COL = { normal: null, slow: 'rgba(170,110,40,.38)', cover: 'rgba(60,170,80,.38)', blocked: 'rgba(210,60,60,.32)' };
   /* v98.139 · the ONE size multiplier of this battle map (the biome, js/map-scale.js) for hero, allies, villagers and monsters; sizes against each other = ⚖ Scale Lineup */

diff --git a/docs/CHANGELOG-TH.md b/docs/CHANGELOG-TH.md
@@ -6361,3 +6361,8 @@ v35b: เปลี่ยนการหมุนสนามจาก crossfade 
 - **บทสอนสมุดสว่างตลอด**: `GuidedTour.run(steps,{bright:true})` ไม่มีม่านมืดและไม่มีเงามืดรอบวง เหลือเพียงวงทองและลูกศร
 - **แก้ภาพกระตุกตอนเดินในเมือง** (`js/texel.js`): การย่อ/เกลาภาพที่เข้าฉากใหม่ถูกสร้างทีเดียวหลายสิบรูปในเฟรมเดียว → จำกัดงานสร้างไม่เกิน ~4 ms ต่อเฟรม (รูปที่ยังไม่ทันสร้างวาดแบบเดิมไปก่อน แล้วค่อยย่อให้เฟรมถัดไป) และเขียนลูป sharpen ใหม่ไม่ให้สร้างอาเรย์ต่อพิกเซล
 - หมายเหตุ: วัดบน headless (ไม่มี GPU) ได้เฟรมไทม์ไม่ตรงเครื่องจริง — ถ้ายังกระตุกให้ส่งว่าเกิดตอนเดินผ่านจุดไหน/เมื่อเปิดอะไรอยู่
+
+## v98.666 — 17 พฤศจิกายน 2026
+- **กรอบเย็บหนังหน้าซ้ายของหน้าต่างการ์ดตรงแล้ว** (`assets/ui/grimoire-open.webp`): เดิมขอบซ้ายของกรอบเอียงประมาณ 12 px ตลอดความสูง ไม่ขนานกับขอบการ์ด → ดัดเฉพาะบริเวณกรอบให้เป็นสี่เหลี่ยมมุมฉาก (วัดหลังแก้: ซ้าย 218.5–220 · ขวา 608–609.5)
+- **สมุดผนึกใหญ่ขึ้น**: กว้างสูงสุด 1540 px (เดิม 1100) จำกัดด้วยความสูงจอไม่ให้ล้น
+- **ริบบิ้นแท็บกลับด้าน**: ด้านแฉกอยู่บน ด้านตรงชิดขอบบนของสมุด แท็บที่เปิดอยู่สูงกว่า
